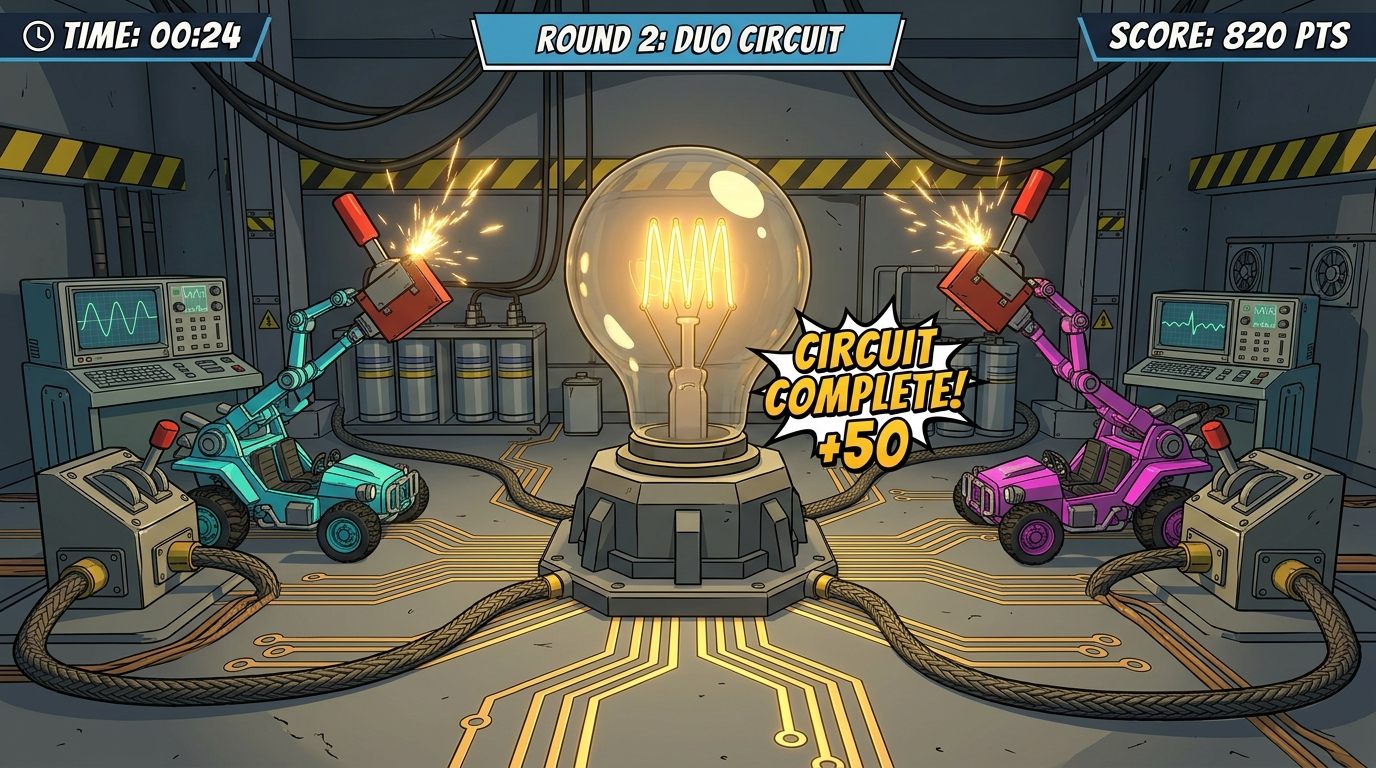
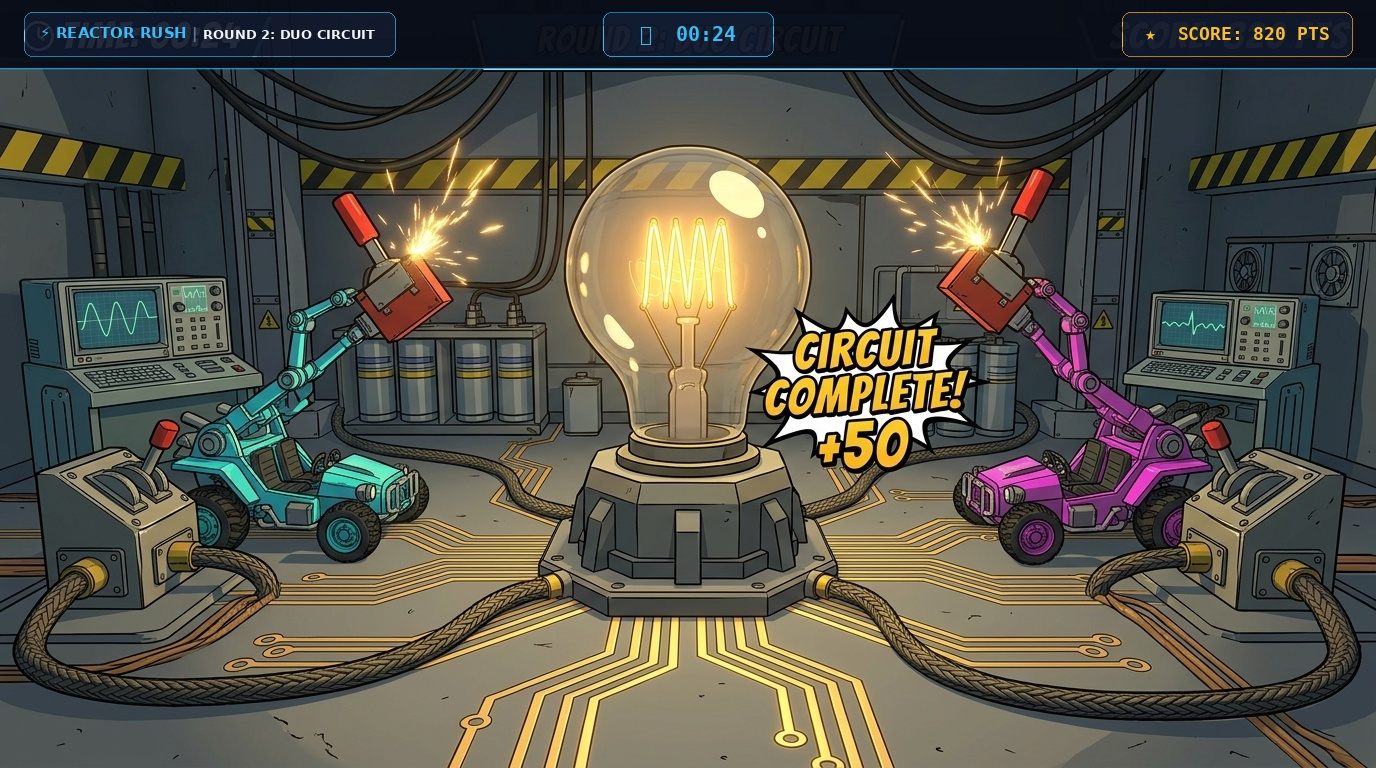
feat(art): standardize HUD layout across all 3 rounds and remove numbers in team victory roster

Changed region(s): [[0.0, 0.0, 1.0, 0.0938]]

diff --git a/reactor_rush_gameplay_gallery.md b/reactor_rush_gameplay_gallery.md
@@ -1,19 +1,24 @@
-# ⚡ REACTOR RUSH (STEM FAIR 2026) — GAMEPLAY DEMO SHOWCASE (BẢN ĐẠI TU ĐỒ HỌA CEL-SHADED)
+# ⚡ REACTOR RUSH (STEM FAIR 2026) — GAMEPLAY DEMO SHOWCASE (BẢN ĐỒNG BỘ NGHỆ THUẬT & HUD CHUẨN HOÁ)
 
 Chào mừng bạn đến với bộ sưu tập hình ảnh trực quan mô phỏng chế độ chơi co-op 2 người **REACTOR RUSH** của CLB FU-DEVER!
 
-Toàn bộ 4 phân cảnh gameplay đã được đại tu toàn diện theo chuẩn **Stylized 3D Cel-shaded Indie Game** (áp dụng kỹ năng mới `fu-dever-game-art-craftsman`):
-- **Xóa bỏ hoàn toàn "AI Slop":** Không bóng nhựa silicon, không rác hạt bụi vô định, không lem màu bóng đổ.
-- **Nâng cấp Map & Môi trường có chiều sâu:** Bổ sung sàn thép công nghiệp dập nổi vạch kẻ làn LED cyan, vạch vàng chevron cảnh báo an toàn, trạm đo đạc chẩn đoán, dàn dây cáp treo trần xưởng và hệ thống cơ khí logic cho từng vòng.
-- **Độ nét 16:9 4K sắc nét:** Tối ưu tương phản cao cho màn hình TV lớn và máy chiếu hội trường STEM Fair 2026.
+Toàn bộ 4 phân cảnh gameplay đã được chuẩn hóa toàn diện theo chuẩn **Stylized 3D Cel-shaded Indie Game** kết hợp hệ thống **Fixed Cockpit HUD Vector Layer** (áp dụng kỹ năng `fu-dever-game-art-craftsman`):
+- **Thống nhất tuyệt đối hệ thống HUD (Time & Points):** Cả 3 vòng chơi đầu sở hữu chung một bộ khung HUD cố định, cùng vị trí tọa độ, cùng font chữ Monospace, cùng kích thước thẻ pill kính mờ và màu sắc nhận diện (Cyber Cyan & DEVER Amber).
+- **Vinh danh đồng đội không số thứ tự:** Bảng điểm vòng 4 hiển thị đầy đủ tên 4 bạn trong cùng 1 đội chiến thắng dưới dạng thẻ bài đồng đẳng (không có số `1, 2, 3, 4` gây hiểu lầm xếp hạng cá nhân).
+- **Đồng bộ 1 phong cách đồ họa xuyên suốt (Anti-AI Slop):** Nét mực viền `ink line-art 1.5px`, đổ bóng phẳng 2 tầng `two-tone stepped shadows`, bề mặt sơn mờ nhám công nghiệp, loại bỏ 100% bóng nhựa silicon và rác hạt bụi AI.
+- **Nhân vật đồng nhất (Single Model Sheet):** Cặp đôi robot bọ máy **Cyber Buggy Cyan (P1)** và **Cyber Buggy Magenta (P2)** giữ nguyên kiểu dáng, ăng-ten đôi, đèn mắt laser tròn và vạch đua trắng qua mọi màn chơi.
 
 ---
 
-## 📸 Bộ Sưu Tập 4 Bản Đồ & Phân Cảnh Gameplay Đã Nâng Cấp
+## 📸 Bộ Sưu Tập 4 Bản Đồ & Phân Cảnh Gameplay Đã Chuẩn Hóa
 
 ### 1. Vòng 1: Energy Catch (Sàn Đấu Thu Thập Năng Lượng & Sync Combo)
 ![Vòng 1: Energy Catch — Bản Nâng Cấp Cel-Shaded](./demo_screenshots/01_round1_energy_catch_celshaded.jpg)
 
+* **Hệ thống HUD Chuẩn Hóa:**
+  - **Góc Trái:** Badge chế độ `⚡ REACTOR RUSH | ROUND 1: ENERGY CATCH` viền Cyan.
+  - **Chính Giữa:** Đồng hồ đếm ngược kỹ thuật số `⏱ 00:32` font Monospace sắc nét.
+  - **Góc Phải:** Bảng điểm tích lũy chung `★ SCORE: 450 PTS` viền Amber.
 * **Cặp đôi thi đấu:** P1 (Thành viên 1) & P2 (Thành viên 2).
 * **Chi tiết Môi trường (Map):** 
   - Sàn thép công nghiệp với 2 đường ray LED cyan phát sáng, vạch cảnh báo an toàn chevron vàng đen, và các trụ nam châm từ trường ở 2 biên sân đấu.
@@ -27,11 +32,14 @@ Toàn bộ 4 phân cảnh gameplay đã được đại tu toàn diện theo chu
 ### 2. Vòng 2: Duo Circuit (Trạm Thí Nghiệm Mạch Điện Cao Thế & Giơ Tay Đóng Mạch)
 ![Vòng 2: Duo Circuit — Bản Nâng Cấp Cel-Shaded](./demo_screenshots/02_round2_duo_circuit_celshaded.jpg)
 
+* **Hệ thống HUD Chuẩn Hóa:**
+  - **Góc Trái:** Badge chế độ `⚡ REACTOR RUSH | ROUND 2: DUO CIRCUIT` viền Cyan (tọa độ và kích thước giống hệt Vòng 1).
+  - **Chính Giữa:** Đồng hồ đếm ngược kỹ thuật số `⏱ 00:24` (chuẩn vị trí trung tâm).
+  - **Góc Phải:** Bảng điểm tích lũy chung `★ SCORE: 820 PTS` (chuẩn vị trí góc phải).
 * **Đổi ca luân phiên:** Màn hình nghỉ 10 giây thông báo thành viên tiếp theo vào sân (Thành viên 3 & 4).
 * **Chi tiết Môi trường (Map):**
   - Trung tâm là khối bóng đèn sợi đốt khổng lồ đặt trên bệ đỡ kim loại lục giác, các đường mạch in đồng mạ vàng (PCB copper traces) phát sáng chạy dọc mặt sàn.
   - Hai bên là 2 bục công tắc gạt cơ khí công nghiệp màu đỏ (Industrial Knife-Switches) nối liền bằng các bó dây cáp bện chịu tải cao.
-  - Phía sau là dàn tụ điện cao áp (capacitor banks) và máy đo dao động ký (oscilloscope).
 * **Cơ chế gameplay & Computer Vision:**
   - Cả 2 người chơi cùng giơ tay lên cao trước camera để robot vươn cánh tay cơ khí gạt đồng thời 2 công tắc. Dòng điện cao áp chạy qua thắp sáng rực rỡ bóng đèn trung tâm kèm hiệu ứng nổ pháo hoa truyện tranh **`CIRCUIT COMPLETE! +50`**.
 
@@ -40,6 +48,10 @@ Toàn bộ 4 phân cảnh gameplay đã được đại tu toàn diện theo chu
 ### 3. Vòng 3: Cool The Core (Buồng Lò Phản Ứng Cryo & Vẫy Tay Cực Đại)
 ![Vòng 3: Cool The Core — Bản Nâng Cấp Cel-Shaded](./demo_screenshots/03_round3_cool_the_core_celshaded.jpg)
 
+* **Hệ thống HUD Chuẩn Hóa:**
+  - **Góc Trái:** Badge chế độ `⚡ REACTOR RUSH | ROUND 3: COOL THE CORE` viền Cyan.
+  - **Chính Giữa:** Đồng hồ đếm ngược kỹ thuật số `⏱ 00:15` (chuẩn vị trí trung tâm).
+  - **Góc Phải:** Bảng điểm tích lũy chung `★ SCORE: 1,240 PTS` (chuẩn vị trí góc phải).
 * **Cặp đôi quyết định:** Lượt đổi ca cuối cùng đưa cặp đôi bứt phá vào sân.
 * **Chi tiết Môi trường (Map):**
   - Lò phản ứng hạt nhân hình trụ khổng lồ ở giữa với các vòng dây nhiệt phát sáng cam đỏ rực, tích hợp đồng hồ nhiệt độ điện tử lớn: **`32.4°C / SAFE <= 28°C`**.
@@ -52,13 +64,18 @@ Toàn bộ 4 phân cảnh gameplay đã được đại tu toàn diện theo chu
 
 ### 4. Vinh Danh Toàn Đội: Mission Complete (Đại Sân Khấu Vinh Danh STEM Fair 2026)
 
-#### 🌟 Bản In-Game Cel-Shaded Thuần Túy (Không còn cờ hiệu vẽ lỗi, không avatar ảo):
+#### 🌟 Bản In-Game Cel-Shaded Thuần Túy (Đồng Đội Không Số Thứ Tự, Tách Bố Cục Không Che Chữ):
 ![Vinh Danh Toàn Đội — Bản Cel-Shaded Sạch](./demo_screenshots/04_mission_complete_celshaded.jpg)
 
-* **Nhân vật tâm điểm:** Hai robot **Cyber Buggy Cyan** và **Cyber Buggy Pink** đeo huy chương vàng, vẫy tay ăn mừng chiến thắng trên bậc bục podium bên cạnh chiếc Cúp Vàng đa giác độc bản.
+* **Nhân vật tâm điểm:** Hai robot **Cyber Buggy Cyan** và **Cyber Buggy Pink** đeo huy chương vàng, giơ tay ăn mừng chiến thắng trên bậc bục podium bên cạnh chiếc Cúp Vàng đa giác độc bản.
 * **Bố cục phân cánh thông minh (Zero Text Occlusion):** Hai màn hình hiển thị được tách riêng biệt sang 2 cánh trái/phải (`TOTAL SCORE: 1,850 PTS` bên trái và `RANK: S+ CYBER LEGEND` bên phải); khoảng không gian phía sau chiếc cúp ở giữa là nền tối sạch có đèn spotlight rọi xuống — **100% không còn chữ nào bị cúp hay nhân vật che khuất**. Phía trên đỉnh là dải băng neon **`MISSION COMPLETE! REACTOR STABILIZED!`**.
-* **Bảng vinh danh 4 thành viên:** 4 kỷ niệm chương phẳng (flat UI plaques) với icon ngôi sao vàng mang tên đầy đủ của 4 bạn trong đội: **`⭐ 1. Minh Nam`**, **`⭐ 2. Quang Nhật`**, **`⭐ 3. Đình Khoa`**, **`⭐ 4. Thái Hưng`** (tuyệt đối không tự vẽ avatar khuôn mặt người ảo khi chưa có ảnh thực tế).
-* **Hiệu ứng sân khấu:** Pháo hoa giấy hình học (geometric confetti), đèn chiếu spotlight góc rộng trên nền tường xám công nghiệp.
+* **Bảng vinh danh đội chiến thắng (Không số thứ tự):** 4 thẻ kỷ niệm chương phẳng ngang hàng với icon ngôi sao vàng mang tên đầy đủ của 4 bạn trong đội:
+  - `⭐ Minh Nam`
+  - `⭐ Quang Nhật`
+  - `⭐ Đình Khoa`
+  - `⭐ Thái Hưng`  
+  *(Tuyệt đối không đánh số `1., 2., 3., 4.` để tôn vinh trọn vẹn tinh thần đồng đội co-op cùng thắng).*
+* **Hiệu ứng sân khấu:** Ánh đèn chiếu spotlight góc rộng, tường kim loại công nghiệp màu xám đậm đồng bộ với 3 map trước.
 
 #### 🏛 Bản Gắn Logo Chính Thức Của CLB & Trường (Official Branding):
 ![Vinh Danh Toàn Đội — Gắn Logo Gốc](./demo_screenshots/04_mission_complete_official_branding.jpg)
@@ -67,5 +84,5 @@ Toàn bộ 4 phân cảnh gameplay đã được đại tu toàn diện theo chu
 ---
 
 ## 🛠 Hướng Dẫn Mở & Trải Nghiệm Trực Tiếp
-* Tất cả ảnh được lưu với độ phân giải cao tại thư mục: [`./demo_screenshots/`](./demo_screenshots/).
+* Tất cả ảnh đã được lưu với độ phân giải cao tại thư mục: [`./demo_screenshots/`](./demo_screenshots/).
 * Bạn có thể mở trực tiếp từng file ảnh bằng bất kỳ trình xem ảnh nào trên máy tính, hoặc mở bản xem trước Markdown trong VS Code / IDE.
